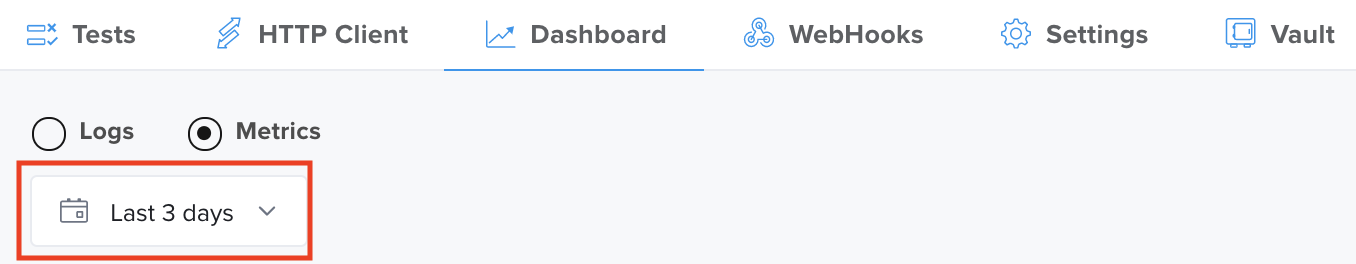
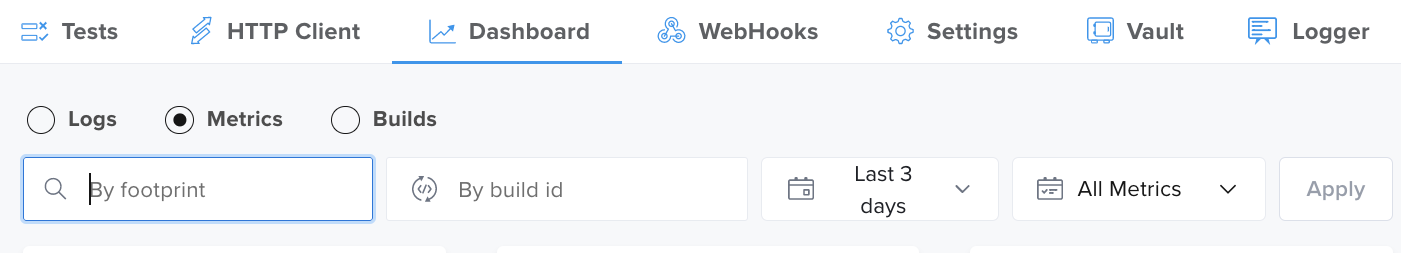
Updates to Results/Dashboard

diff --git a/docs/api-testing/project-dashboard.md b/docs/api-testing/project-dashboard.md
@@ -1,86 +1,72 @@
 ---
 id: project-dashboard
 title: Using the Project Dashboard
-sidebar_label: Test Results and Insights
+sidebar_label: Dashboard Insights and Test Results
 ---
 
 import useBaseUrl from '@docusaurus/useBaseUrl';
 
-The API Testing Dashboard &#8212; accessible from with a Project &#8212; displays metrics, logs, and builds, giving you insight into your tests. It centralizes testing management reporting and facilitates team collaboration.
+After you run an API Test, you can view your results, reporting, and analytics to gain further insight and maximize your testing.
 
 ## What You'll Need
 
 * A Sauce Labs account ([Log in](https://accounts.saucelabs.com/am/XUI/#login/) or sign up for a [free trial license](https://saucelabs.com/sign-up)).
-* An existing API Test. For details on how to create one, see [API Testing Quickstart](/api-testing/quickstart/).
+* An existing API Test. For details on how to create one, see the [Quickstart](/api-testing/quickstart/).
 
 
-## Test Outcome Reports
-The API Testing **Test Outcome Report** includes input data details and other useful test information, such as reasons for failure, HTTP request and response status codes.
+## Test Outcome Report
+The **Test Outcome Report** includes input data details and other useful test information, such as reasons for failure, HTTP requests, and response status codes.
 
-To learn how to access Test results, see [API Testing Quickstart](/api-testing/quickstart). Here's an example of a full report:
-<img src={useBaseUrl('img/api-fortress/2021/02/fullReport.png')} alt="Test Report Primer Image" width="700" />
+There are two ways to access it:
+* From your Test's **Compose** section, after you've run the Test (see [API Testing Quickstart](/api-testing/quickstart).
+* From your Project's **Dashboard**, by clicking on any Test line item
 
-#### Session Details
-Timestamp, execution type, and metadata about the execution of the test (e.g., _Date_, _Mode_, and _Execution Time_).
-<img src={useBaseUrl('img/api-fortress/2021/02/sessionDetails.png')} alt="Test Report Primer Image" width="300" />
-
-#### General Details
-Test name, test status (pass or fail), project.
-<img src={useBaseUrl('img/api-fortress/2021/02/generalDetails.png')} alt="Test Report Primer Image" width="200" />
-
-#### Request Component
-Shows the specific component that you tested. To view granular details about requests and headers, click **See Stack Details**.
-<img src={useBaseUrl('img/api-fortress/2021/02/requestComponent.png')} alt="Test Report Primer Image" width="650" />
-
-#### Assertions
-Gray dot indicates a pass, red dot indicates a fail, and yellow dot indicates a warning.
-<img src={useBaseUrl('img/api-fortress/2021/02/assertions.png')} alt="Test Report Primer Image" width="500" />
+Here's a breakdown of what each **Test Outcome Report** contains:
+* Test Report Details: metadata about the execution of the test, such as Test Name, Project Name, and Mode (Scheduled or On Request)<br/><img src={useBaseUrl('img/api-fortress/2021/02/sessionDetails.png')} alt="Test Report" width="500" />
+* Outcome (pass/fail status):<br/><img src={useBaseUrl('img/api-fortress/2021/02/outcome.png')} alt="Test Report" width="200" />
+* Assertions: your Test assertions, where a gray dot indicates a pass, red dot indicates a fail, and yellow dot indicates a warning<br/><img src={useBaseUrl('img/api-fortress/2021/02/assertions.png')} alt="Test Report Primer Image" width="500" />
+* Request Components: shows the specific component(s) that you tested.<br/><img src={useBaseUrl('img/api-fortress/2021/02/requestComponent.png')} alt="Test Report Primer Image" width="200" />
+* Stack Details: click this to view granular details about requests and headers.<br/><img src={useBaseUrl('img/api-fortress/2021/02/stackDetails.png')} alt="Test Report Primer Image" width="150" /><br/><img src={useBaseUrl('img/api-fortress/2021/02/stackDetails-expanded.png')} alt="Stack details" width="250" />
 
 
+## Dashboard
 
-## Test Logs
+The API Testing Dashboard &#8212; accessible from with a Project &#8212; displays metrics, logs, and builds, a centralized test management tool that simplifies collaboration and reporting.
 
-To view Test logs:
+
+### Test Logs
 
 1. Log in to Sauce Labs, then click **API Testing**.
-2. Click on any Project, then click the **Dashboard** tab.<br/><img src={useBaseUrl('img/api-fortress/2021/02/dash-1.2.png')} alt="Dashboard Pic 1.2" width="300" />
-3. From **Dashboard**, select **Logs**.<br/><img src={useBaseUrl('img/api-fortress/2021/02/dashboardLogs.png')} alt="Dashboard Logs"/>
-4. Set desired filters to find the test(s) you're looking for, then click **Apply**. Available filters are: date range, tags, event type, and mode (Monitoring (Scheduled) Tests or On-Demand Tests).<br/><img src={useBaseUrl('img/api-fortress/2021/02/dashboardFilters.png')} alt="Dashboard Logs Filters"/>
+2. Click on any Project.
+3. Click the **Dashboard** tab.
+4. Select the **Logs** radio button.
+5. Select desired filters to find the Test(s) you're looking for, then click **Apply**. Filters include, but are not limited to: date range, mode (Monitoring (Scheduled) Tests or On-Demand Tests), and tag(s).<br/><img src={useBaseUrl('img/api-fortress/2021/02/dashboardFilters.png')} alt="Dashboard Logs Filters"/>
 
-To view the [Test Outcome Report](#test-outcome-reports/), hover your mouse over a line item, then click the kebab icon (three dots):<br/><img src={useBaseUrl('img/api-fortress/2021/02/dashboardReport.png')} alt="Dashboard Report" width="500"/>
 
-
-## Test Metrics
+### Test Metrics
 
 To view Test performance metrics (latency and fetch):
 
-1. Follow steps 1 and 2 from [Test Logs](#test-logs).
-2. From inside the **Dashboard**, select **Metrics**.<br/><img src={useBaseUrl('img/api-fortress/2021/02/metrics.png')} alt="Dashboard Metrics"/>
-3. Set the start and end date filters, if desired.<br/><img src={useBaseUrl('img/api-fortress/2021/02/metricsFilters.png')} alt="Dashboard Metrics Filters"/>
+1. Log in to Sauce Labs, then click **API Testing**.
+2. Click on any Project.
+3. Click the **Dashboard** tab.
+4. Select the **Metrics** radio button.
+5. Select desired filters to find the Test(s) you're looking for, then click **Apply**. Filters include, but are not limited to: date range, footprint (the request URL), and tag(s).<br/><img src={useBaseUrl('img/api-fortress/2021/02/metricsFilters.png')} alt="Dashboard Metrics Filters"/>
 
 
-## Test Build Reports
+### Test Build Reports
 
-If you have Sauce Labs API Testing integrated into your CI/CD pipeline, you can launch several API tests simultaneously and group them as a build by [passing the `-b <build ID>` flag to the required `apifctl` commands](/api-testing/integrations/apifctl-cicd-integration/#-b-build-id).
+A *Build* is a collection of test results and metrics associated with a given build ID. To create a Build, you'll need to integrate Sauce Labs API Testing into your CI/CD pipeline, then run multiple tests simultaneously, grouped as a Build, by [passing the `-b <build ID>` flag](/api-testing/integrations/apifctl-cicd-integration/#-b-build-id) to the required `apifctl` commands. Sauce API Testing will group all events generated by the Test session under a "build" collector, and test results are collected under **Dashboard** > **Builds**. To view:
 
-Sauce API Testing will group all of the events generated by the testing session under a "build" collector. A build is a collection of test results and metrics, associated with a given build ID.
-
-These test results are collected in the Project Dashboard **Builds** section, located next to the **Logs** (events) and **Metrics**. Each Build is labeled with a status, build ID, date last modified, and number of successful events out of total events in that build.
-
-<img src={useBaseUrl('img/api-testing/dashboard/builds1.png')} alt="Dashboard Builds"/>
-
-
-From each Build line item, you can click to see a summary report containing the following details:
-* **Build ID**
-* Date/time **Created**
-* Date/time of **Last Update**
-* List of **Project(s)** involved in the build
-* **Total events**, **Successes** and **Failures**
-* List of Tests belonging to that build. Under the **Event Details** column, you can click **Open Report Document** to see the results and metrics for each specific test that has been executed in the build.
-
-<img src={useBaseUrl('img/api-testing/dashboard/builds2.png')} alt="Dashboard Builds"/>
-
+1. Log in to Sauce Labs, then click **API Testing**.
+2. Click on any Project.
+3. Click the **Dashboard** tab.
+4. Select the **Build** radio button.
+5. Set the date and/or build ID filters, if desired, to find the Test(s) you're looking for. Then click **Apply**.<br/><img src={useBaseUrl('img/api-fortress/2021/02/builds.png')} alt="Dashboard Builds" width="400"/>
+6. Click on any line item below to view a summary report for that Build.<img src={useBaseUrl('img/api-fortress/2021/02/builds1.png')} alt="Dashboard Builds"/><br/><img src={useBaseUrl('img/api-fortress/2021/02/builds2.png')} alt="Dashboard Builds"/>
+  The report contains details such as the build ID, list of Tests belonging to that build, date/time, Projects involved, successful tests, and failed tests.
+7. Under the **Event Details** column, click **Open Report Document** to see the results and metrics for each specific test that has been executed in the build.<br/><img src={useBaseUrl('img/api-fortress/2021/02/builds3.png')} alt="Dashboard Builds"/>
 
 
 ## More Information
-- [Composing API Tests](/api-testing/composer/)
+- [Composing Tests](/api-testing/composer/)
